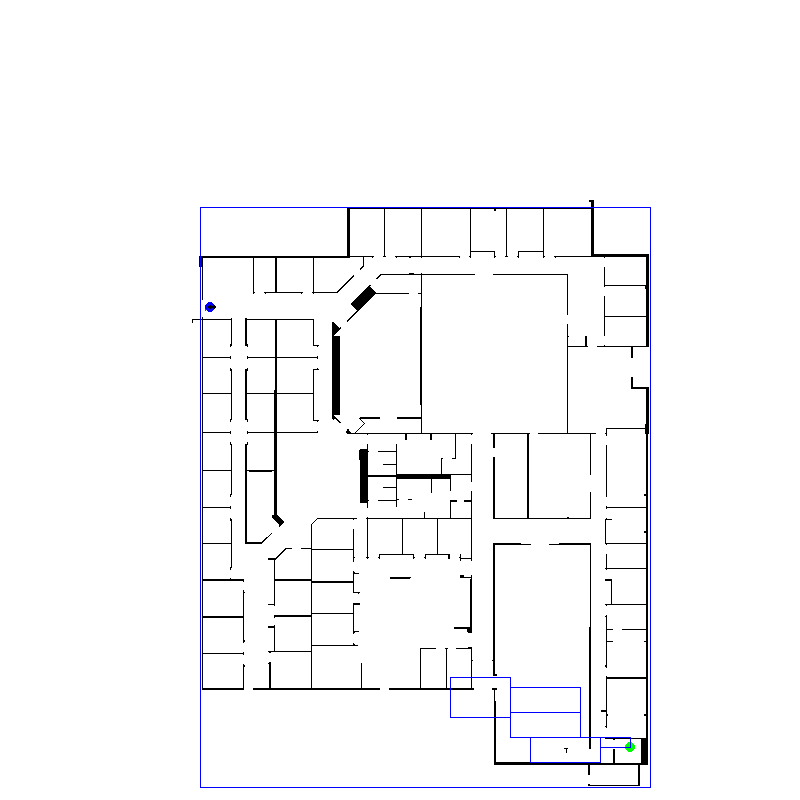
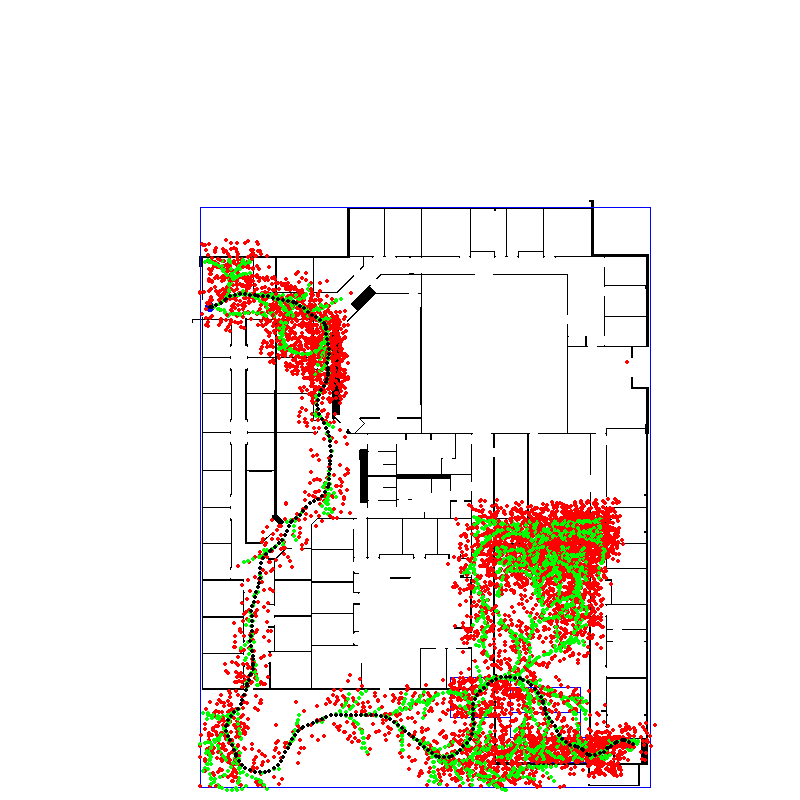
myhal rrt* found, rviz shows can follow well enough

Changed region(s): [[0.25, 0.2812, 0.8125, 1.0]]

diff --git a/src/rob521_lab2/nodes/l2_planning.py b/src/rob521_lab2/nodes/l2_planning.py
@@ -387,8 +387,8 @@ class PathPlanner:
         # return np.zeros((3, self.num_substeps))
 
         """
-        Given two nodes, fund non-holonomic path that connects them exactly
-        over self.timestep
+        Given two nodes, find non-holonomic path that connects them 
+        can ignore final heading
 
         Args:
             point_i (np.ndarray): 3x1 starting point [x; y; theta]
@@ -398,28 +398,50 @@ class PathPlanner:
                         or None if the required velocities are too high
         """
 
-        # displacements
-        dx = point_f[0,0] - point_i[0,0]
-        dy = point_f[1,0] - point_i[1,0]
+        curr_pt = point_i
+        dest_pt = point_f
 
-        dist = np.sqrt(dx**2, dy**2)
+        traj = curr_pt.reshape(3,1)
 
-        # required heading change
-        desired_theta = np.arctan(dy, dx)
-        angle_err = desired_theta - point_i[2,0]
+        while True:
+            curr_traj = self.simulate_trajectory(curr_pt, dest_pt)
 
+            footprint_rows, footprint_cols = self.points_to_robot_circle(curr_traj[:2,:])
+            for r,c in zip(footprint_rows, footprint_cols):
+                if np.any(self.occupancy_map[r,c] == 0):
+                    # collision
+                    return None
+            
+            traj_end = curr_traj[:,-1]
+            # print(traj)
+            traj = np.hstack((traj,curr_traj))
 
+            if self.stopping_dist - np.linalg.norm(traj_end[:2] - dest_pt) < 1e-6:
+                break # done!
+            else:
+                if np.any(np.not_equal(curr_pt, traj_end)):
+                    curr_pt = traj_end
+                else:
+                    return None
 
+        return traj
     
     def cost_to_come(self, trajectory_o):
-        #The cost to get to a node from lavalle 
-        print("TO DO: Implement a cost to come metric")
-        return 0
-    
-    def update_children(self, node_id):
-        #Given a node_id with a changed cost, update all connected nodes with the new cost
-        print("TO DO: Update the costs of connected nodes after rewiring.")
-        return
+
+        total_cost = 0
+        for i in range(1, len(trajectory_o)):
+            dist = np.linalg.norm(trajectory_o[i] - trajectory_o[i-1])
+            total_cost += dist
+        
+        return total_cost
+
+    def update_children(self, node_id, delta_cost):
+        node = self.nodes[node_id]
+        node.cost += delta_cost
+
+        for child_id in node.children_ids:
+            self.update_children(child_id, delta_cost) # recursively update children
+
 
     #Planner Functions
     def rrt_planning(self, max_iters=5000):
@@ -557,30 +579,116 @@ class PathPlanner:
             iter += 1
 
     def rrt_star_planning(self):
-        #This function performs RRT* for the given map and robot        
-        for i in range(1): #Most likely need more iterations than this to complete the map!
-            #Sample
-            point = self.sample_map_space()
+        while True:
+            # sample
+            new_point = self.sample_map_space(self.outer_easy_bounds)
 
-            #Closest Node
-            closest_node_id = self.closest_node(point)
+            # find closest node
+            closest_node_id = self.closest_node(new_point.reshape(2,1))
+            closest_node = self.nodes[closest_node_id]
 
-            #Simulate trajectory
-            trajectory_o = self.simulate_trajectory(self.nodes[closest_node_id].point, point)
+            # simulate trajectory
+            trajectory_o = self.connect_node_to_point(closest_node.point, new_point)
+            if trajectory_o is None: # collisions exist in trajectory
+                continue
+            trajectory_cost = self.cost_to_come(trajectory_o)
 
-            #Check for Collision
-            print("TO DO: Check for collision.")
+            # print(trajectory_o)
 
-            #Last node rewire
-            print("TO DO: Last node rewiring")
+            # add new node with costs
+            new_node = Node(
+                trajectory_o[:,-1].reshape(3,1),
+                closest_node_id,
+                closest_node.cost + trajectory_cost
+            )
+            # print(new_node.point)
+            self.nodes.append(new_node)
 
-            #Close node rewire
-            print("TO DO: Near point rewiring")
+            curr_node_id = len(self.nodes) - 1
+            curr_node = self.nodes[curr_node_id]
+            closest_node.children_ids.append(curr_node_id)
 
-            #Check for early end
-            print("TO DO: Check for early end")
-        return self.nodes
-    
+            #### show point ####
+            self.window.add_point(
+                map_frame_point=np.array([new_node.point[0][0], new_node.point[1][0]]),
+                radius=1,
+                color=(0,255,0)
+            )
+
+            # last node rewiring: treat the curr_node as a child and find the best parent
+            near_nodes = self.find_near_nodes(curr_node.point)
+            # print(near_nodes)
+            for near_node_id in near_nodes:
+                if curr_node.parent_id == near_node_id:
+                    continue # don't need to check existing connection
+
+                # print(near_node_id)
+                near_node = self.nodes[near_node_id]
+                # print(near_node.point)
+                new_trajectory = self.connect_node_to_point(near_node.point, curr_node.point[:2]) # connect near_node --> curr_node
+                if new_trajectory is None:
+                    continue # skip if there is collision
+
+                new_trajectory_cost = near_node.cost + self.cost_to_come(new_trajectory)
+                if new_trajectory_cost < curr_node.cost:
+                    curr_node.cost = new_trajectory_cost
+                    self.nodes[curr_node.parent_id].children_ids.remove(curr_node_id) # remove curr_node as a child of its parent
+                    curr_node.parent_id = near_node_id # update parent
+                    near_node.children_ids.append(curr_node_id) # add curr_node as child of the new parent
+
+            # near edge rewiring: treat curr_node as a parent and check for potential children
+            for _ in range(5):
+                near_nodes = self.find_near_nodes(curr_node.point)
+                for near_node_id in near_nodes:
+                    if self.is_parent(curr_node, near_node_id) or near_node_id == -1:
+                        continue # skip if near_node is parent of curr_node
+                    near_node = self.nodes[near_node_id]
+                    new_trajectory = self.connect_node_to_point(curr_node.point, near_node.point[:2]) # connect curr_node --> near_node
+                    if new_trajectory is None:
+                        continue # skip if there is collision
+
+                    new_trajectory_cost = curr_node.cost + self.cost_to_come(new_trajectory)
+
+                    if new_trajectory_cost < near_node.cost:
+                        delta = near_node.cost - new_trajectory_cost
+                        near_node.cost = new_trajectory_cost
+                        self.nodes[near_node.parent_id].children_ids.remove(near_node_id)
+                        near_node.parent_id = curr_node_id
+                        curr_node.children_ids.append(near_node_id)
+                        self.update_children(near_node_id, delta)
+                        curr_node = near_node
+                        curr_node_id = near_node_id
+                        break
+
+            # check for early end
+            dist_to_goal = np.sqrt((new_node.point[0] - self.goal_point[0])**2 + (new_node.point[1] - self.goal_point[1])**2)
+            if dist_to_goal <= self.stopping_dist:
+                final_node = self.nodes[-1]
+                final_trajectory = [final_node.point]
+
+                # draw graph
+                # while final_node.parent_id != -1:
+                #     final_trajectory = [self.nodes[final_node.parent_id].point] + final_trajectory
+                #     final_node = self.nodes[final_node.parent_id]
+
+                # for i, pt in enumerate(final_trajectory):
+                #     self.window.add_point(
+                #         map_frame_point=np.array([pt[0][0], pt[1][0]]),
+                #         radius=2,
+                #         color=(0,0,255)
+                #     )
+                #     if i < len(final_trajectory) - 1:
+                #         self.window.add_line(
+                #             np.array([pt[0][0], pt[1][0]]),
+                #             final_trajectory[i+1][:2],
+                #             width=1,
+                #             color=(0,0,255)
+                #         )
+                
+                return self.nodes
+
+
+
     def recover_path(self, node_id = -1):
         path = [self.nodes[node_id].point]
         current_node_id = self.nodes[node_id].parent_id
@@ -597,6 +705,27 @@ class PathPlanner:
                 map_frame_point=pt[:2],
                 radius=2
             )
+
+    # ---------------------- helpers for rrt* ----------------------
+    def find_near_nodes(self, point):
+        near_nodes = []
+        radius = self.ball_radius()
+
+        for node_id, node in enumerate(self.nodes):
+            node = self.nodes[node_id]
+            dist = float(np.linalg.norm(node.point - point))
+            if dist <= radius:
+                near_nodes.append(node_id)
+        
+        return near_nodes
+
+    def is_parent(self, node, id):
+        curr_node = node
+        while curr_node.parent_id != -1:
+            if curr_node.parent_id == id:
+                return True
+            curr_node = self.nodes[curr_node.parent_id]
+        return False
 
 # ---------------------- run planners ----------------------
 
@@ -677,7 +806,9 @@ def rrt_planning_test_willow():
 
     path_planner.window.save_img("willow_rrt.png")
 
-def rrt_planning_test_myhal():
+def rrt_planning_test_myhal(rrt_star=True):
+    print("using rrt*")
+
     #Set map information
     map_filename = "myhal.png"
     map_setings_filename = "myhal.yaml"
@@ -708,18 +839,19 @@ def rrt_planning_test_myhal():
         hyperparameters,
         bottleneck_bounds
     )
-    nodes = path_planner.rrt_planning()
+
+    if rrt_star:
+        nodes = path_planner.rrt_star_planning()
+    else:
+        nodes = path_planner.rrt_planning()
     node_path_metric = np.hstack(path_planner.recover_path())
 
     #Leftover test functions
-    np.save("myhal_path.npy", node_path_metric)
 
-    # draw found path
-    points = np.load("myhal_path.npy").T
-    path_planner.plot(points)
-
-    path_planner.window.save_img("myhal_rrt.png")
-
+    if rrt_star:
+        np.save("myhal_path_rrt_star.npy", node_path_metric)
+    else:
+        np.save("myhal_path.npy", node_path_metric)
 
 # --------------------- debuggers ---------------------
 def print_nodes(nodes):

diff --git a/src/rob521_lab2/nodes/l2_follow_path_myhal.py b/src/rob521_lab2/nodes/l2_follow_path_myhal.py
@@ -16,24 +16,49 @@ from visualization_msgs.msg import Marker
 # ros and se2 conversion utils
 import utils
 
+RRT_STAR = True
 
-TRANS_GOAL_TOL = .2  # m, tolerance to consider a goal complete
-ROT_GOAL_TOL = .4  # rad, tolerance to consider a goal complete
-TRANS_VEL_OPTS = [0, 0.025, 0.13, 0.26]  # m/s, max of real robot is .26
-# TRANS_VEL_OPTS = [0, 0.025, 0.15, 0.26, 0.35]
-# ROT_VEL_OPTS = np.linspace(-1.82, 1.82, 11)  # rad/s, max of real robot is 1.82
-ROT_VEL_OPTS = np.linspace(-1.82, 1.82, 20)
-# ROT_VEL_OPTS = np.linspace(-1.5, 1.5, 17)
-CONTROL_RATE = 15  # Hz, how frequently control signals are sent
-CONTROL_HORIZON = 3  # seconds. if this is set too high and INTEGRATION_DT is too low, code will take a long time to run!
-INTEGRATION_DT = .025  # s, delta t to propagate trajectories forward by
-COLLISION_RADIUS = 0.3  # m, radius from base_link to use for collisions, min of 0.2077 based on dimensions of .281 x .306
-ROT_DIST_MULT = 0.3  # multiplier to change effect of rotational distance in choosing correct control
-# OBS_DIST_MULT = .1  # multiplier to change the effect of low distance to obstacles on a path
-OBS_DIST_MULT = 0.2
-MIN_TRANS_DIST_TO_USE_ROT = TRANS_GOAL_TOL  # m, robot has to be within this distance to use rot distance in cost
+if RRT_STAR:
+    TRANS_GOAL_TOL = .2  # m, tolerance to consider a goal complete
+    ROT_GOAL_TOL = .5  # rad, tolerance to consider a goal complete
+    TRANS_VEL_OPTS = [0, 0.025, 0.13, 0.26]  # m/s, max of real robot is .26
+    # TRANS_VEL_OPTS = [0, 0.025, 0.15, 0.26, 0.35]
+    # ROT_VEL_OPTS = np.linspace(-1.82, 1.82, 11)  # rad/s, max of real robot is 1.82
+    ROT_VEL_OPTS = np.linspace(-1.82, 1.82, 20)
+    # ROT_VEL_OPTS = np.linspace(-1.5, 1.5, 17)
+    CONTROL_RATE = 15  # Hz, how frequently control signals are sent
+    CONTROL_HORIZON = 3  # seconds. if this is set too high and INTEGRATION_DT is too low, code will take a long time to run!
+    INTEGRATION_DT = .025  # s, delta t to propagate trajectories forward by
+    COLLISION_RADIUS = 0.3  # m, radius from base_link to use for collisions, min of 0.2077 based on dimensions of .281 x .306
+    ROT_DIST_MULT = 0.2  # multiplier to change effect of rotational distance in choosing correct control
+    # OBS_DIST_MULT = .1  # multiplier to change the effect of low distance to obstacles on a path
+    OBS_DIST_MULT = 0.2
+    MIN_TRANS_DIST_TO_USE_ROT = TRANS_GOAL_TOL  # m, robot has to be within this distance to use rot distance in cost
 
-PATH_NAME = 'myhal_path.npy'
+    PATH_NAME = 'myhal_path_rrt_star.npy'
+else:
+    TRANS_GOAL_TOL = .2  # m, tolerance to consider a goal complete
+    ROT_GOAL_TOL = .4  # rad, tolerance to consider a goal complete
+    TRANS_VEL_OPTS = [0, 0.025, 0.13, 0.26]  # m/s, max of real robot is .26
+    # TRANS_VEL_OPTS = [0, 0.025, 0.15, 0.26, 0.35]
+    # ROT_VEL_OPTS = np.linspace(-1.82, 1.82, 11)  # rad/s, max of real robot is 1.82
+    ROT_VEL_OPTS = np.linspace(-1.82, 1.82, 20)
+    # ROT_VEL_OPTS = np.linspace(-1.5, 1.5, 17)
+    CONTROL_RATE = 15  # Hz, how frequently control signals are sent
+    CONTROL_HORIZON = 3  # seconds. if this is set too high and INTEGRATION_DT is too low, code will take a long time to run!
+    INTEGRATION_DT = .025  # s, delta t to propagate trajectories forward by
+    COLLISION_RADIUS = 0.3  # m, radius from base_link to use for collisions, min of 0.2077 based on dimensions of .281 x .306
+    ROT_DIST_MULT = 0.3  # multiplier to change effect of rotational distance in choosing correct control
+    # OBS_DIST_MULT = .1  # multiplier to change the effect of low distance to obstacles on a path
+    OBS_DIST_MULT = 0.2
+    MIN_TRANS_DIST_TO_USE_ROT = TRANS_GOAL_TOL  # m, robot has to be within this distance to use rot distance in cost
+
+    PATH_NAME = 'myhal_path.npy'
+
+
+
+
+
 
 #Map Handling Functions
 def load_map(filename):

diff --git a/src/rob521_lab2/nodes/l2_follow_path.py b/src/rob521_lab2/nodes/l2_follow_path.py
@@ -192,10 +192,18 @@ class PathFollower():
                     trans_dist = np.linalg.norm(last_pose[:2] - self.cur_goal[:2])
 
                     if trans_dist < MIN_TRANS_DIST_TO_USE_ROT:
-                        abs_theta_diff = np.abs(last_pose[2] - self.cur_goal[2])
-                        rot_dist = min(np.pi*2 - abs_theta_diff, abs_theta_diff)
+                        # abs_theta_diff = np.abs(last_pose[2] - self.cur_goal[2])
+                        # rot_dist = min(np.pi*2 - abs_theta_diff, abs_theta_diff)
+                        rot_error = np.arctan2(
+                            self.cur_goal[1] - last_pose[1],
+                            self.cur_goal[0] - last_pose[1]
+                        ) - last_pose[2]
+                        rot_error = (rot_error + np.pi) % (2*np.pi) - np.pi
+                        rot_dist = np.abs(rot_error)
                     else:
                         rot_dist = 0
+
+                    print(rot_dist)
 
                     obs_pen = OBS_DIST_MULT / (local_paths_lowest_collision_dist[opt] + 0.1) # 0.1 for numerical stability
 
@@ -252,12 +260,6 @@ class PathFollower():
     def stop_robot_on_shutdown(self):
         self.cmd_pub.publish(Twist())
         rospy.loginfo("Published zero vel on shutdown.")
-
-    # ----------------- helpers -----------------
-
-
-
-
 
 if __name__ == '__main__':
     try:
